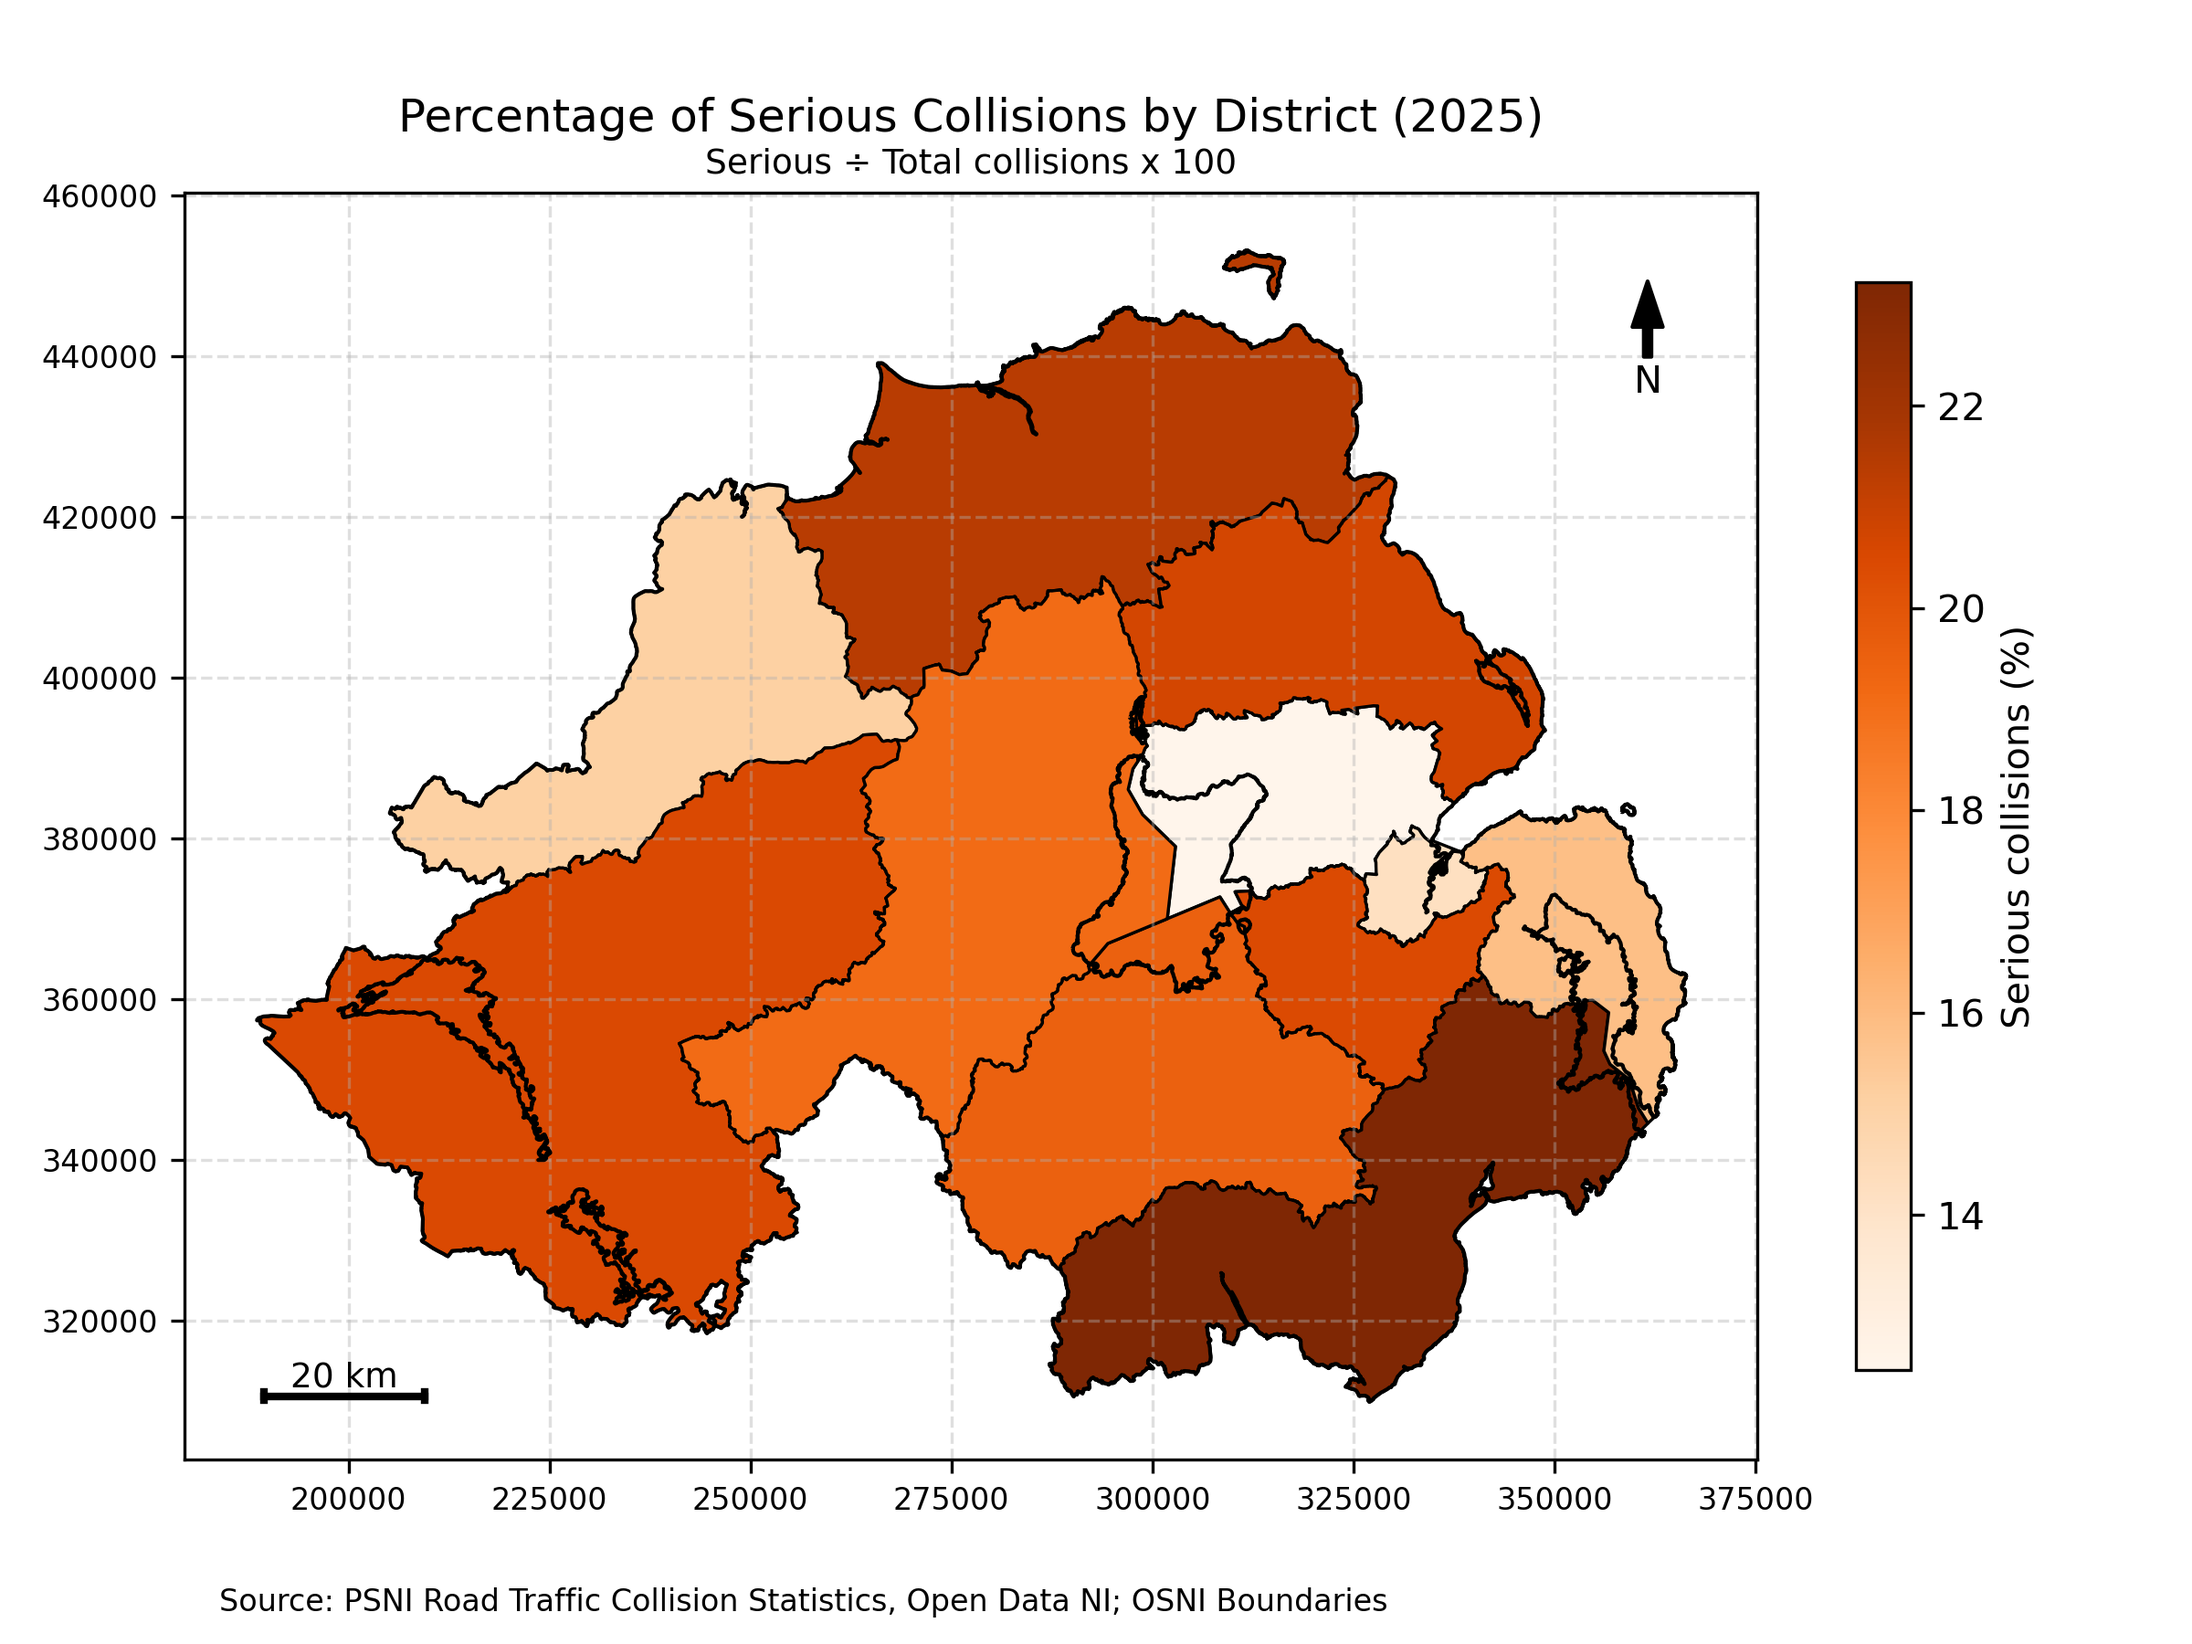
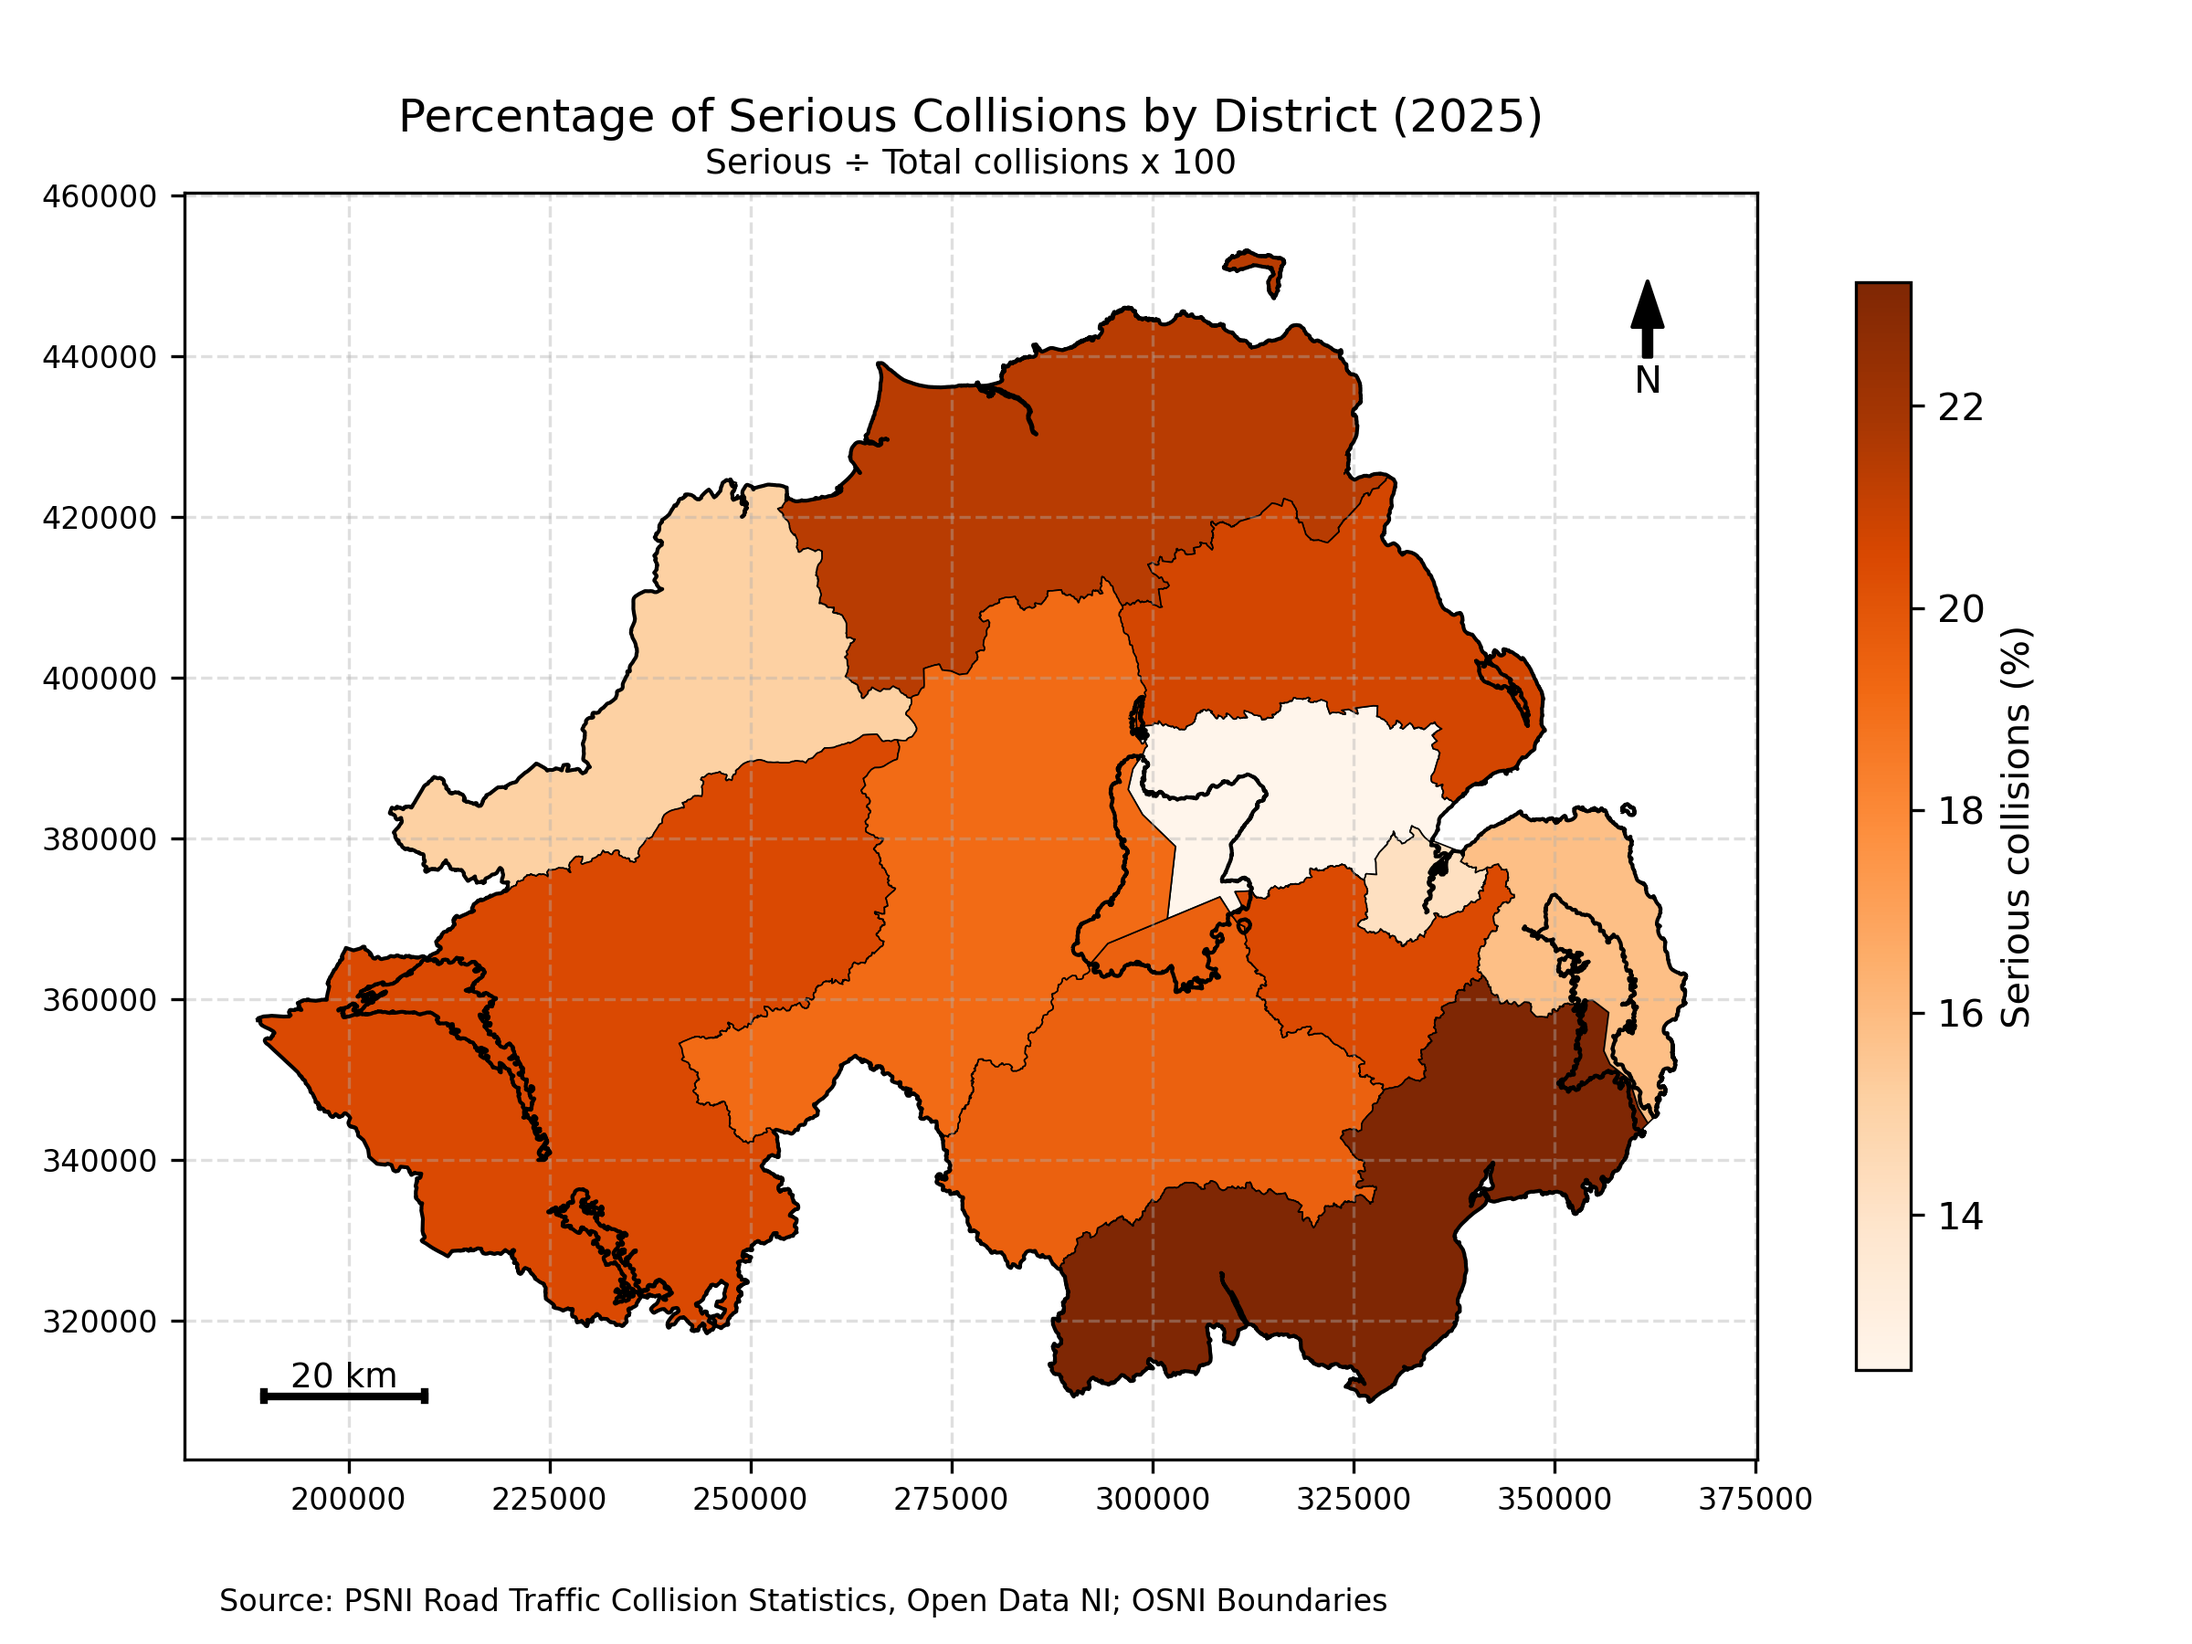
improving choropleth map
linewidth = 0.4

diff --git a/ni_collision_analysis.py b/ni_collision_analysis.py
@@ -149,7 +149,7 @@ def create_choropleth_map(districts, severity_table, outline, output_dir, year,
     districts_metric.plot(
         column=column_name,
         cmap=cmap,
-        linewidth=0.8,
+        linewidth=0.4,
         edgecolor="black",
         legend=True,
         legend_kwds={
